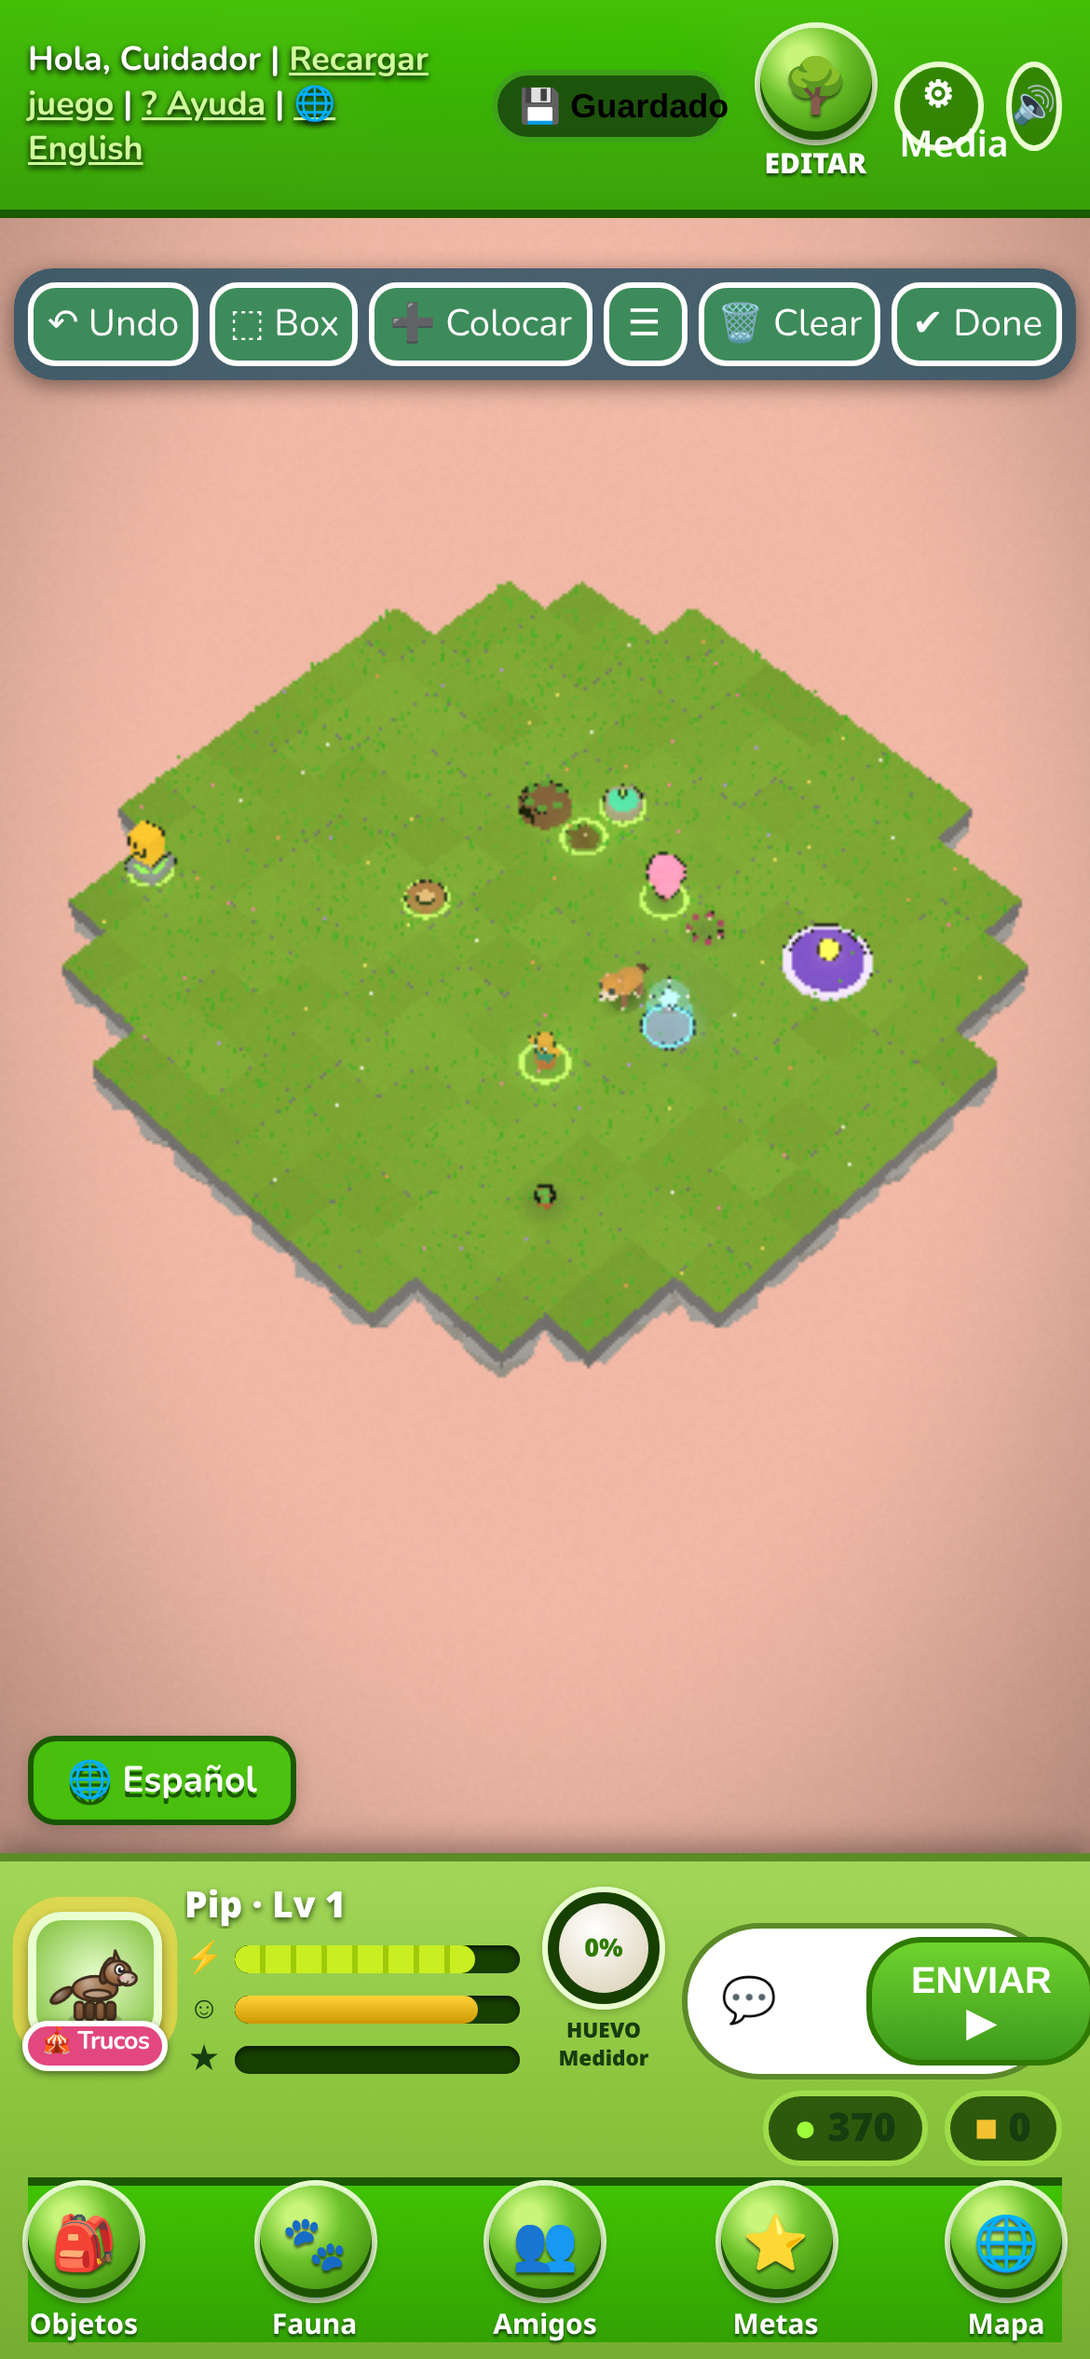
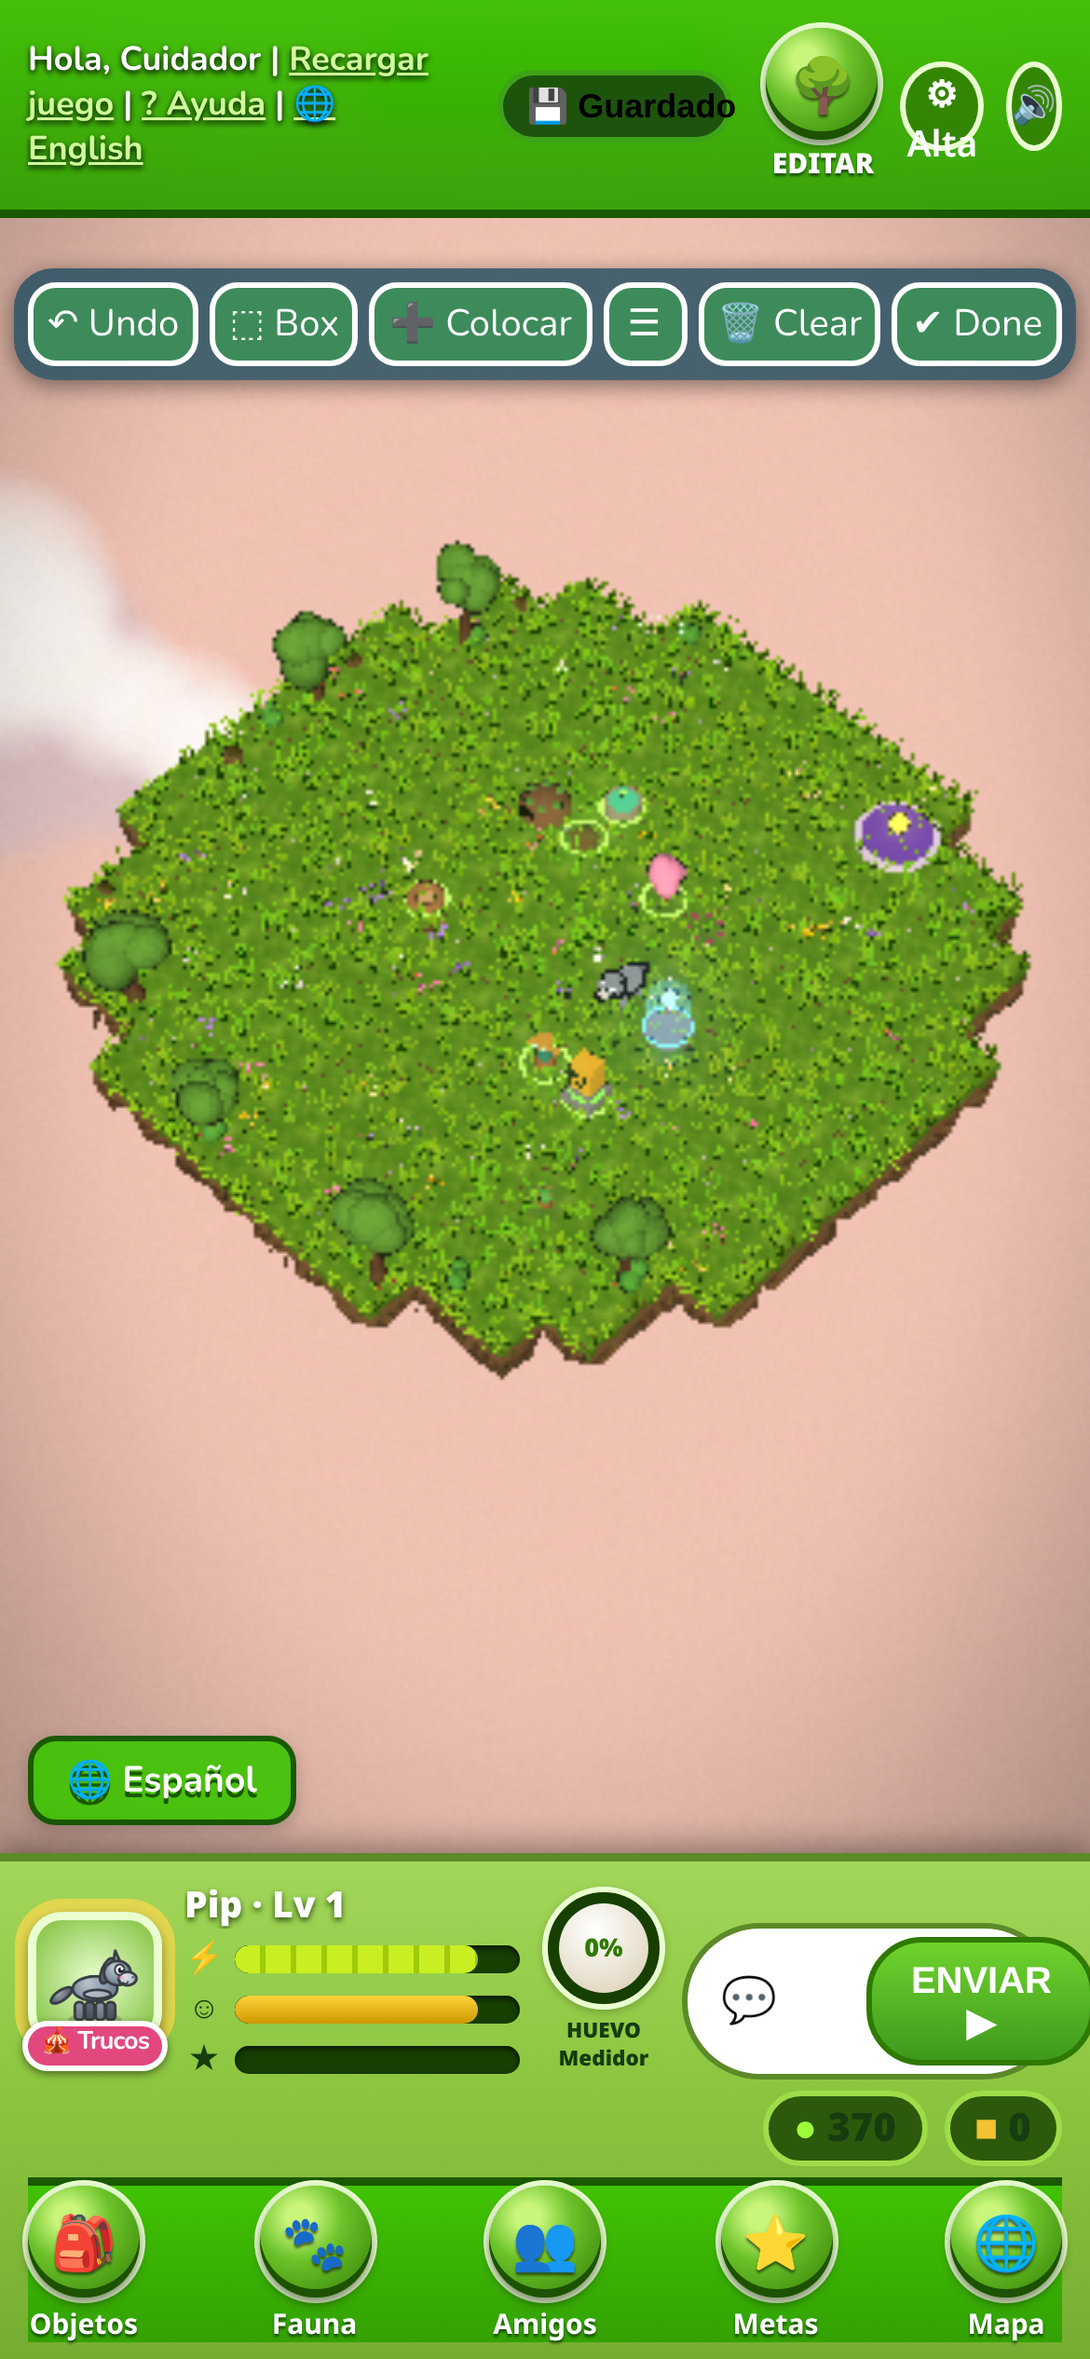
v6.6: taller hills and terraces (walkable ramps, flat stations/edges), world7 dressing lifted onto hills; sw fs-v66-1

Changed region(s): [[0.0, 0.1872, 0.9538, 0.5928], [0.4615, 0.0, 0.9231, 0.0936], [0.0615, 0.8112, 0.1231, 0.8736]]

diff --git a/gl.js b/gl.js
@@ -104,7 +104,21 @@ function windify(m,amt=.12,hgt=.35){m.onBeforeCompile=s=>{s.uniforms.uTime=U.tim
 
 // ---------- island ----------
 let island=new THREE.Group();scene.add(island);let builtZone=null,N0=0,C0=0;
-const W2=(i,j)=>new THREE.Vector3(i-C0,0,j-C0);
+// v6 step 2: hills/terraces. Deterministic per-zone height field (not saved). Home stays flat.
+let HMAP=null;const HSTEP=.25;
+function genHeights(zid,n,tiles,objs){if(zid==='home'||(window.FS_HILLS===0))return null;const T=new Set(tiles.map(t=>t[0]+','+t[1]));let sd=0;for(const c of zid)sd=(sd*31+c.charCodeAt(0))|0;
+ const r=k=>{const x=Math.sin(sd*.013+k*12.9898)*43758.5;return x-Math.floor(x)};const hills=[];const nh=2+Math.floor(n/6);for(let k=0;k<nh;k++)hills.push([2+r(k)*(n-4),2+r(k+50)*(n-4),2.2+r(k+90)*n*.22,1.1+r(k+130)*1.4,r(k+170)<.5]);
+ const flat=new Set();(objs||[]).forEach(o=>{if(['gate','vendor','goal','project'].includes(o.type))for(let a=-1;a<2;a++)for(let b=-1;b<2;b++)flat.add((o.i+a)+','+(o.j+b))});
+ const H=[];for(let i=0;i<n;i++){H[i]=[];for(let j=0;j<n;j++){let h=0;for(const[x,y,rad,amp,ter]of hills){const d=Math.hypot(i-x,j-y)/rad;if(d<1){const v=amp*(ter?(d<.55?1:(1-d)/.45):.5*(1+Math.cos(Math.PI*d)));h=Math.max(h,v)}}
+  if(!T.has(i+','+j)||flat.has(i+','+j))h=0;let e=0;for(let a=-1;a<2;a++)for(let b=-1;b<2;b++)if(!T.has((i+a)+','+(j+b)))e=1;if(e)h=0;H[i][j]=Math.round(h/HSTEP)*HSTEP}}
+ // walkable: neighbours differ by at most 2 steps (ramps, no cliffs); flat tiles stay flat
+ for(let it=0;it<12;it++)for(let i=0;i<n;i++)for(let j=0;j<n;j++){let m=H[i][j];for(const[a,b]of[[1,0],[-1,0],[0,1],[0,-1]]){const v=H[i+a]&&H[i+a][j+b];if(v!=null&&T.has((i+a)+','+(j+b)))m=Math.min(m,v+3*HSTEP)}H[i][j]=m}return H}
+const HT=(i,j)=>{if(!HMAP)return 0;const r=HMAP[i];return r&&r[j]||0};
+const HGT=(x,z)=>{if(!HMAP)return 0;const fi=x+C0,fj=z+C0,i0=Math.floor(fi),j0=Math.floor(fj),u=fi-i0,v=fj-j0;const a=HT(i0,j0),b=HT(i0+1,j0),c=HT(i0,j0+1),d=HT(i0+1,j0+1);
+ // terraces: snap within the inner 70% of a tile, ramp across tile edges
+ const sm=t=>t<.1?0:t>.9?1:(t-.1)/.8;const U2=sm(u),V2=sm(v);return(a*(1-U2)+b*U2)*(1-V2)+(c*(1-U2)+d*U2)*V2};
+G.HGT=HGT;G.HT=HT;
+const W2=(i,j)=>new THREE.Vector3(i-C0,HGT(i-C0,j-C0),j-C0);
 function buildIsland(zid){scene.remove(island);island.traverse(o=>{if(o.geometry)o.geometry.dispose()});island=new THREE.Group();scene.add(island);
  const z=Z(zid),s=zs(zid),pal=(window.ZPAL&&ZPAL[zid])||BIOMES[z.biome],n=z.n;N0=n;C0=(n-1)/2;const tiles=[];for(let i=0;i<n;i++)for(let j=0;j<n;j++)if(s.tiles[i][j])tiles.push([i,j]);
  const top=genTex(BTOP[z.biome],pal[0]),side=genTex(z.biome==='arctic'?'rock':'dirt',pal[1]);
@@ -112,8 +126,8 @@ function buildIsland(zid){scene.remove(island);island.traverse(o=>{if(o.geometry
  const sideM=TFLAT(pal[1],{map:side.map,normalMap:side.normalMap,roughness:.95});
  const g=new THREE.BoxGeometry(1,.5,1);g.translate(0,-.25,0);
  const im=new THREE.InstancedMesh(g,[sideM,sideM,topM,sideM,sideM,sideM],tiles.length),m4=new THREE.Matrix4(),col=new THREE.Color();
- const TSET=new Set(tiles.map(t=>t[0]+','+t[1]));tiles.forEach(([i,j],k)=>{const h=(hsh(i,j,4)-.5)*.04;m4.makeTranslation(i-C0,h,j-C0);im.setMatrixAt(k,m4);let nb=0;for(let a=-1;a<2;a++)for(let b=-1;b<2;b++)if((a||b)&&TSET.has((i+a)+','+(j+b)))nb++;col.setHSL(0,0,(.86+hsh(i,j,9)*.12)*(.86+.14*nb/8));im.setColorAt(k,col)});
- im.receiveShadow=!!QP.shadow;im.castShadow=!!QP.shadow;im.userData.ground=1;island.add(im);
+ HMAP=genHeights(zid,n,tiles,s.objs);const TSET=new Set(tiles.map(t=>t[0]+','+t[1]));tiles.forEach(([i,j],k)=>{const th=HT(i,j),h=(hsh(i,j,4)-.5)*.04+th;m4.makeTranslation(i-C0,h,j-C0);if(th)m4.multiply(new THREE.Matrix4().makeScale(1,1+th/.5,1));im.setMatrixAt(k,m4);let nb=0;for(let a=-1;a<2;a++)for(let b=-1;b<2;b++)if((a||b)&&TSET.has((i+a)+','+(j+b)))nb++;col.setHSL(0,0,(.86+hsh(i,j,9)*.12)*(.86+.14*nb/8));im.setColorAt(k,col)});
+ im.receiveShadow=!!QP.shadow;im.castShadow=!!QP.shadow;im.userData.ground=1;im.userData.tiles=tiles;G._groundIM=im;island.add(im);
  // grass lip on top edges for grassy biomes
  // underside: rocky stalactites
  const rockT=genTex('rock',pal[2]);const rM=TFLAT(pal[2],{map:rockT.map,normalMap:rockT.normalMap,roughness:1,flatShading:true});
@@ -128,15 +142,19 @@ function buildIsland(zid){scene.remove(island);island.traverse(o=>{if(o.geometry
   const bpa=bg.attributes.position;for(let k=0;k<bpa.count;k++){const y=bpa.getY(k);bpa.setX(k,bpa.getX(k)*(1-y/.2))}
   const gm=windify(new THREE.MeshStandardMaterial({color:z.biome==='swamp'?0x7d8f45:z.biome==='rock'?0x9aa36a:0x6fc04f,roughness:.9,side:THREE.DoubleSide}),.06,.2);
   const occ=new Set(s.objs.map(o=>o.i+','+o.j));const ok=tiles.filter(([i,j])=>!occ.has(i+','+j)||true);
-  const gi=new THREE.InstancedMesh(bg,gm,cnt);for(let k=0;k<cnt;k++){const[i,j]=ok[k%ok.length];const x=i-C0+(Math.random()-.5),zz=j-C0+(Math.random()-.5);q.setFromEuler(new THREE.Euler(0,Math.random()*6.28,(Math.random()-.5)*.3));const hs=.6+Math.random()*.9;sc.set(1,hs,1);p.set(x,0,zz);m4.compose(p,q,sc);gi.setMatrixAt(k,m4);col.setHSL(.23+Math.random()*.07,.62,.5+Math.random()*.18);gi.setColorAt(k,col)}
+  const gi=new THREE.InstancedMesh(bg,gm,cnt);for(let k=0;k<cnt;k++){const[i,j]=ok[k%ok.length];const x=i-C0+(Math.random()-.5),zz=j-C0+(Math.random()-.5);q.setFromEuler(new THREE.Euler(0,Math.random()*6.28,(Math.random()-.5)*.3));const hs=.6+Math.random()*.9;sc.set(1,hs,1);p.set(x,HGT(x,zz),zz);m4.compose(p,q,sc);gi.setMatrixAt(k,m4);col.setHSL(.23+Math.random()*.07,.62,.5+Math.random()*.18);gi.setColorAt(k,col)}
   gi.receiveShadow=!!QP.shadow;island.add(gi);
   // flowers
   if(z.biome==='home'||z.biome==='garden'||z.biome==='forest'){const fg=new THREE.SphereGeometry(.03,6,4);const fm=new THREE.MeshStandardMaterial({roughness:.6,emissive:0x221111});const fc=Math.floor(cnt/45);const fi=new THREE.InstancedMesh(fg,fm,fc);
-   for(let k=0;k<fc;k++){const[i,j]=ok[(k*7)%ok.length];p.set(i-C0+(Math.random()-.5)*.9,.12+Math.random()*.06,j-C0+(Math.random()-.5)*.9);m4.makeTranslation(p.x,p.y,p.z);fi.setMatrixAt(k,m4);fi.setColorAt(k,col.set([0xffe066,0xff7fb0,0xffffff,0xb48cff,0xff9a5a][k%5]))}island.add(fi)}}
+   for(let k=0;k<fc;k++){const[i,j]=ok[(k*7)%ok.length];p.set(i-C0+(Math.random()-.5)*.9,.12+Math.random()*.06,j-C0+(Math.random()-.5)*.9);p.y+=HGT(p.x,p.z);m4.makeTranslation(p.x,p.y,p.z);fi.setMatrixAt(k,m4);fi.setColorAt(k,col.set([0xffe066,0xff7fb0,0xffffff,0xb48cff,0xff9a5a][k%5]))}island.add(fi)}}
  // snow sparkle / pebbles for others
  if(z.biome==='arctic'||z.biome==='scorch'||z.biome==='dungeon'){const pg=new THREE.DodecahedronGeometry(.05,0);const pm=new THREE.MeshStandardMaterial({color:z.biome==='arctic'?0xe8f4ff:z.biome==='scorch'?0xb98a55:0x6b6578,roughness:.9,flatShading:true});const c=tiles.length*3;const pi=new THREE.InstancedMesh(pg,pm,c);
-  for(let k=0;k<c;k++){const[i,j]=tiles[k%tiles.length];q.setFromEuler(new THREE.Euler(Math.random()*3,Math.random()*3,0));const s2=.5+Math.random()*1.4;sc.set(s2,s2*.6,s2);p.set(i-C0+(Math.random()-.5)*.9,.01,j-C0+(Math.random()-.5)*.9);m4.compose(p,q,sc);pi.setMatrixAt(k,m4)}pi.receiveShadow=true;island.add(pi)}
- builtZone=zid;if(G.W6build)try{G.W6build(zid)}catch(e){console.warn('w6',e)}}
+  for(let k=0;k<c;k++){const[i,j]=tiles[k%tiles.length];q.setFromEuler(new THREE.Euler(Math.random()*3,Math.random()*3,0));const s2=.5+Math.random()*1.4;sc.set(s2,s2*.6,s2);p.set(i-C0+(Math.random()-.5)*.9,.01,j-C0+(Math.random()-.5)*.9);p.y+=HGT(p.x,p.z);m4.compose(p,q,sc);pi.setMatrixAt(k,m4)}pi.receiveShadow=true;island.add(pi)}
+ builtZone=zid;const nb0=island.children.length;if(G.W6build)try{G.W6build(zid)}catch(e){console.warn('w6',e)}
+ // v6.5: lift world dressing (world7 grass, trees, decor) onto the hill heights
+ if(HMAP){const v=new THREE.Vector3(),mm=new THREE.Matrix4();island.children.slice(nb0).forEach(o=>{if(o.userData.ground||o.userData.hlift)return;o.userData.hlift=1;
+  if(o.isInstancedMesh){for(let k=0;k<o.count;k++){o.getMatrixAt(k,mm);v.setFromMatrixPosition(mm);if(v.y<-.05)continue;mm.elements[13]+=HGT(v.x,v.z);o.setMatrixAt(k,mm)}o.instanceMatrix.needsUpdate=true;o.computeBoundingSphere&&o.computeBoundingSphere()}
+  else if(o.position.y>-.05)o.position.y+=HGT(o.position.x,o.position.z)})}}
 
 // ---------- water shader ----------
 const waterMat=()=>new THREE.ShaderMaterial({transparent:true,uniforms:{uTime:U.time,uCol:{value:new THREE.Color(0x3aa7e0)},uDeep:{value:new THREE.Color(0x0d4f86)}},
@@ -444,7 +462,7 @@ addEventListener('resize',size);size();
 const fpos=new THREE.Vector3();
 function updCamera(dt,t){const n=N0||9,asp=W/H,fov=camera.fov*Math.PI/180;
  const fit=(n*.55)/Math.tan(fov/2)/Math.min(1.25,Math.max(.55,asp));let dist=fit/(cam.zoom||1);const portrait=asp<.8;if(portrait)dist=Math.min(dist,n*(typeof S!=="undefined"&&S.zone==="home"?4.4:2.1)/(cam.zoom||1));const HW=false;
- const follow=portrait?(HW?.55:1):clamp((cam.zoom-1)/.8,0,1);const tgt=new THREE.Vector3().lerpVectors(new THREE.Vector3(0,0,0),fpos,follow);tgt.y=.15;const EC=G.editCam;if(EC&&S.zone==='home'){tgt.set(EC.x,.15,EC.z);dist=n*3.8/(EC.zoom||1);if(camS.dist!=null){camS.dist=dist;camS.t.copy(tgt)}}
+ const follow=portrait?(HW?.55:1):clamp((cam.zoom-1)/.8,0,1);const tgt=new THREE.Vector3().lerpVectors(new THREE.Vector3(0,0,0),fpos,follow);tgt.y=.15+fpos.y*follow;const EC=G.editCam;if(EC&&S.zone==='home'){tgt.set(EC.x,.15,EC.z);dist=n*3.8/(EC.zoom||1);if(camS.dist!=null){camS.dist=dist;camS.t.copy(tgt)}}
  if(camS.dist===null){camS.dist=dist;camS.t.copy(tgt)}camS.dist+=(dist-camS.dist)*.08;camS.t.lerp(tgt,.06);
  let yaw=camS.yaw,pitch=camS.pitch,d=camS.dist;if((titleOn||!fa())&&!(G.editCam&&S.zone==="home")){yaw+=t*.12;d*=1.15;pitch=.55}
  const k=Math.cos(pitch)*d;camera.position.set(camS.t.x+Math.sin(yaw)*k,camS.t.y+Math.sin(pitch)*d,camS.t.z+Math.cos(yaw)*k);
@@ -456,7 +474,7 @@ addEventListener('pointerup',()=>dragS=null);cv.addEventListener('pointercancel'
 // ---------- picking (overrides 2D) ----------
 const ray=new THREE.Raycaster(),ndc=new THREE.Vector2(),plane=new THREE.Plane(new THREE.Vector3(0,1,0),0);
 function setRay(px,py){ndc.set(px/W*2-1,-(py/H)*2+1);ray.setFromCamera(ndc,camera)}
-G.screenToTile=(px,py)=>{setRay(px,py);const p=new THREE.Vector3();if(!ray.ray.intersectPlane(plane,p))return[-1,-1];return[Math.round(p.x+C0),Math.round(p.z+C0)]};
+G.screenToTile=(px,py)=>{setRay(px,py);if(HMAP&&G._groundIM){const hit=ray.intersectObject(G._groundIM,false)[0];if(hit&&hit.instanceId!=null){const t=G._groundIM.userData.tiles[hit.instanceId];if(t)return[t[0],t[1]]}}const p=new THREE.Vector3();if(!ray.ray.intersectPlane(plane,p))return[-1,-1];return[Math.round(p.x+C0),Math.round(p.z+C0)]};
 G.screenToWorld=(px,py)=>{setRay(px,py);const p=new THREE.Vector3();if(!ray.ray.intersectPlane(plane,p))return null;return[p.x+C0,p.z+C0]};G.projTile=(i,j,y)=>{const v=W2(i,j);v.y=y||0;return proj(v)};G.camYaw=()=>camS.yaw;G._camDbg=()=>[camera.position.toArray().map(x=>+x.toFixed(2)),camS.t.toArray().map(x=>+x.toFixed(2)),+camS.dist.toFixed(2),camera.fov,camera.aspect.toFixed(3),C0];
 G.hitObj=(px,py)=>{setRay(px,py);const hits=[];for(const[,e]of objMap)if(isClickable(e.o))hits.push(e.hit);const r=ray.intersectObjects(hits,false);return r.length?r[0].object.userData.obj:null};
 const proj=v=>{const p=v.clone().project(camera);return[(p.x*.5+.5)*W,(-p.y*.5+.5)*H,p.z]};
@@ -501,7 +519,7 @@ function frame(){const tn=performance.now(),dt=Math.min(.1,(tn-lastT)/1000);last
  syncObjs();
  // fauna
  const lvB=f.level>=20?4:f.level>=15?3:f.level>=10?2:f.level>=5?1:0,key=JSON.stringify(f.genes)+lvB;if(key!==faunaKey){if(fauna)scene.remove(fauna);fauna=buildFauna({...f.genes,_lv:f.level,_hd:1});scene.add(fauna);faunaKey=key}
- const want=W2(rt.pos.i,rt.pos.j);const mv=want.clone().sub(fpos);fpos.lerp(want,.5);fauna.position.copy(fpos);
+ const want=W2(rt.pos.i,rt.pos.j);const mv=want.clone().sub(fpos);fpos.lerp(want,.5);fpos.y=HGT(fpos.x,fpos.z);fauna.position.copy(fpos);
  if(mv.lengthSq()>1e-6&&rt.tgt){const yaw=Math.atan2(mv.x,mv.z);let d=yaw-fauna.rotation.y;d=Math.atan2(Math.sin(d),Math.cos(d));fauna.rotation.y+=d*.18}
  const zapA=clamp(1-(now()-(rt.zapT||0))/260,0,1);
  if(zapA>0&&rt.tgtObj&&!rt.tgt){const tp=W2(rt.tgtObj.i,rt.tgtObj.j);const d=tp.clone().sub(fpos);const yaw=Math.atan2(d.x,d.z);let dd=yaw-fauna.rotation.y;dd=Math.atan2(Math.sin(dd),Math.cos(dd));fauna.rotation.y+=dd*.3}
@@ -512,14 +530,14 @@ function frame(){const tn=performance.now(),dt=Math.min(.1,(tn-lastT)/1000);last
  if(zapA>0&&rt.tgtObj){Sound.zapHold(true);const a=new THREE.Vector3();gr.gem.getWorldPosition(a);const b=W2(rt.tgtObj.i,rt.tgtObj.j).add(new THREE.Vector3(0,.3,0));bolt(a,b,zapA,gr.gemCol);
   if(Math.random()<.7)spawn({p:b.clone(),v:new THREE.Vector3((Math.random()-.5)*2,Math.random()*1.5,(Math.random()-.5)*2),col:new THREE.Color(0xeaffb0),size:.08,decay:.06,g:-4})}else bolt(null);
  // target ring
- target.visible=!!(rt.tgt&&!rt.onArrive);if(target.visible){target.position.copy(W2(...rt.tgt)).setY(.03);target.scale.setScalar(1+Math.sin(t*8)*.1)}
- hoverTile.visible=!!(rt.decor&&rt.hover);if(hoverTile.visible)hoverTile.position.copy(W2(...rt.hover)).setY(.02);
+ target.visible=!!(rt.tgt&&!rt.onArrive);if(target.visible){target.position.copy(W2(...rt.tgt)).setY(HT(rt.tgt[0],rt.tgt[1])+.03);target.scale.setScalar(1+Math.sin(t*8)*.1)}
+ hoverTile.visible=!!(rt.decor&&rt.hover);if(hoverTile.visible)hoverTile.position.copy(W2(...rt.hover)).setY(HT(rt.hover[0],rt.hover[1])+.02);
  // objects animation & lights
  let li=0;const lp=[];
  for(const[,e]of objMap){const o=e.o,g=e.g,u=g.userData;objVisualState(o);
   if(u.ring){const near=Math.hypot(o.i-rt.pos.i,o.j-rt.pos.j)<2.2,hov=rt.hover&&rt.hover[0]===o.i&&rt.hover[1]===o.j;u.ring.visible=near||hov;if(u.ring.visible){u.ring.scale.setScalar(1+Math.sin(t*4)*.05);if(u.nodeSkill)u.ring.material.emissive.set(o.ready&&SPECIES[f.genes.species].skill===u.nodeSkill?0x8bff4a:0xff3a2a)}}
   if(u.pulse)u.pulse.emissiveIntensity=1.6+Math.sin(t*3+o.i)*.8;
-  if(u.blob){const b0=u.b0||(u.b0=u.blob.scale.clone());const hp=o.type==='poll'?.6+.4*Math.min(1,(o.hp||1)/3):1;u.blob.scale.set(b0.x*hp*(1+Math.sin(t*4+o.j)*.06),b0.y*hp*(1-Math.sin(t*4+o.j)*.08),b0.z*hp);if(o.type==='tox'){g.position.y=Math.abs(Math.sin(t*3+o.i))*.05;const d=fpos.clone().sub(g.position);g.rotation.y=Math.atan2(d.x,d.z)}}
+  if(u.blob){const b0=u.b0||(u.b0=u.blob.scale.clone());const hp=o.type==='poll'?.6+.4*Math.min(1,(o.hp||1)/3):1;u.blob.scale.set(b0.x*hp*(1+Math.sin(t*4+o.j)*.06),b0.y*hp*(1-Math.sin(t*4+o.j)*.08),b0.z*hp);if(o.type==='tox'){g.position.y=HT(o.i,o.j)+Math.abs(Math.sin(t*3+o.i))*.05;const d=fpos.clone().sub(g.position);g.rotation.y=Math.atan2(d.x,d.z)}}
   if(u.spin){u.spin.rotation.y=t*1.5;u.spin.position.y=.9+Math.sin(t*2)*.05;(u.spin.material||u.spin.children[0].material).emissiveIntensity=o.alert?3.5+Math.sin(t*8):2}
   if(u.flame)u.flame.scale.set(1+Math.sin(t*20)*.1,1+Math.sin(t*13)*.2,1);
   if(u.egg)u.egg.visible=!!o.egg;if(u.treats)u.treats.forEach((m,k)=>m.visible=k<(o.count||0));if(u.eyes)u.eyes.emissiveIntensity=o.ready?3:.2;

diff --git a/sw.js b/sw.js
@@ -1,4 +1,4 @@
-const C='fs-v65-1',F=['./','world7.js','tex/cliff.jpg','index.html','style.css','data.js','audio.js','art.js','enemydmg.js','game.js','save.js','fshooks.js','zonepal.js','mech.js','content6.js','fun.js','content7.js','unlock.js','content8.js','content9.js','content10.js','content11.js','content12.js','content13.js','content14.js','content15.js','content16.js','content17.js','content18.js','content19.js','content20.js','content21.js','content22.js','content23.js','savedb.js','v5.js','net.js','tricks2.js','gift.js','toonfauna.js','faint.js','rarity.js','fauna2.js','safety.js','i18n.js','i18n_es.js','vendor/peerjs.min.js','gl.js','vendor/three/three.module.min.js','manifest.json','icon.svg','icon-192.png','icon-512.png','icon-maskable-512.png','apple-touch-icon.png'];
+const C='fs-v66-1',F=['./','world7.js','tex/cliff.jpg','index.html','style.css','data.js','audio.js','art.js','enemydmg.js','game.js','save.js','fshooks.js','zonepal.js','mech.js','content6.js','fun.js','content7.js','unlock.js','content8.js','content9.js','content10.js','content11.js','content12.js','content13.js','content14.js','content15.js','content16.js','content17.js','content18.js','content19.js','content20.js','content21.js','content22.js','content23.js','savedb.js','v5.js','net.js','tricks2.js','gift.js','toonfauna.js','faint.js','rarity.js','fauna2.js','safety.js','i18n.js','i18n_es.js','vendor/peerjs.min.js','gl.js','vendor/three/three.module.min.js','manifest.json','icon.svg','icon-192.png','icon-512.png','icon-maskable-512.png','apple-touch-icon.png'];
 self.addEventListener('install',e=>{self.skipWaiting();e.waitUntil(caches.open(C).then(c=>c.addAll(F)).catch(()=>{}))});
 self.addEventListener('activate',e=>e.waitUntil(caches.keys().then(k=>Promise.all(k.filter(x=>x!==C).map(x=>caches.delete(x)))).then(()=>self.clients.claim())));
 // network-first so deploys show up immediately; cache fallback offline

diff --git a/RELEASES.md b/RELEASES.md
@@ -98,3 +98,6 @@ Screenshots: screenshots/v5_home_mobile.png, v5_travel_mobile.png, v5_destinatio
 - content23.js: every zone except home is 2x the area, with more trees, rocks and dig spots. Old saves grow in place (objects shift with the grid, progress kept). Same toon look.
 - Frame times with the CPU slowed 4x, Rock Garden (avg ms): 1x 114, 2x 134, 3x 151, 4x 245, 5x 232. Next step: 3x; 4x+ is where phones would struggle.
 - 2026-10-25 5:17 PM EDT — v6.1.1: faint → home. When the active fauna's happiness (the stat monster hits drain) reaches 0 outside home, it plays a short sleep-faint + moan, shows "💫 Your fauna fainted and was sent home" (ES: Tu fauna se desmayó y fue enviada a casa), travels home via the 🏠 Home path (peers see it leave), monster damage is 0 during the transition, happiness restored to 25. Never triggers at home/visit. New file faint.js (replaces tooSad). SW cache fs-v611-1. Saves untouched.
+
+## v6.6 — Hills and terraces
+- Every zone except home has hills and terraces up to ~2.25 high in the same look. Neighbouring tiles differ by at most 0.75 and walking ramps smoothly, so no path is blocked. The gate, vendor, goal and project, plus the island edges, stay flat. Fauna, objects and the camera follow the slope; taps pick the raised tile. world7 grass, trees and decor are lifted onto the hill heights. Heights come from the zone itself, so nothing is added to the save.
